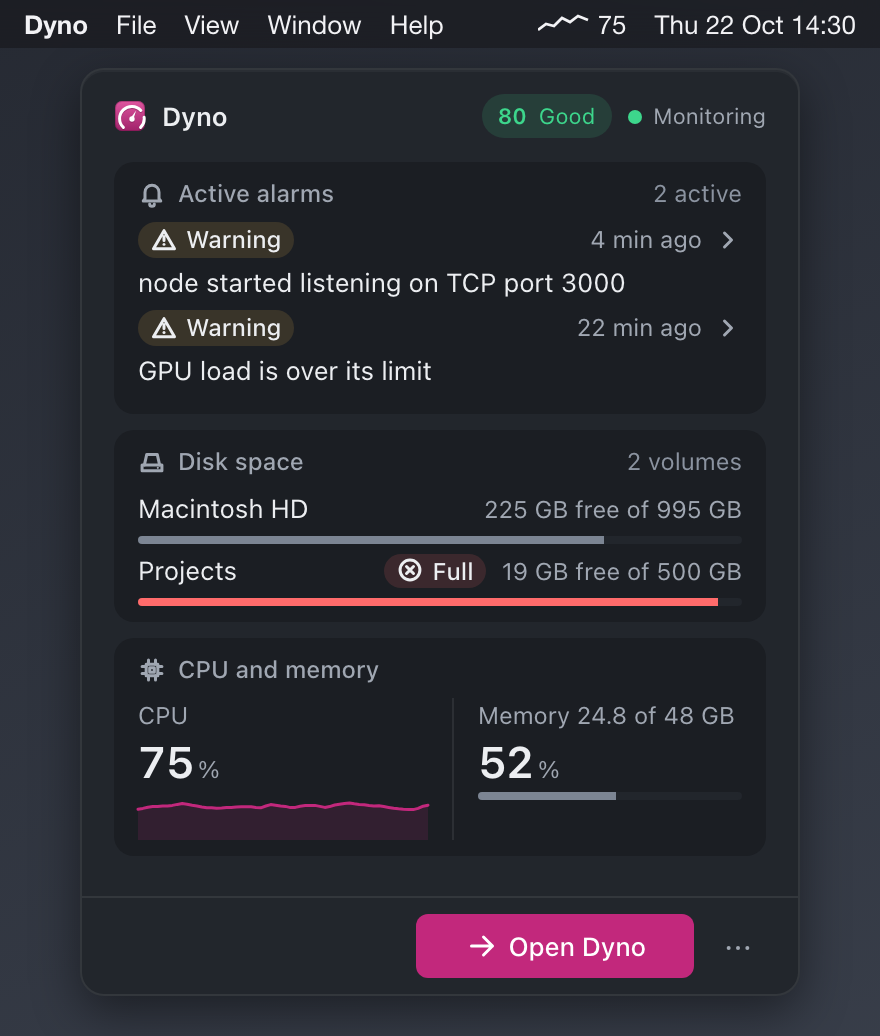
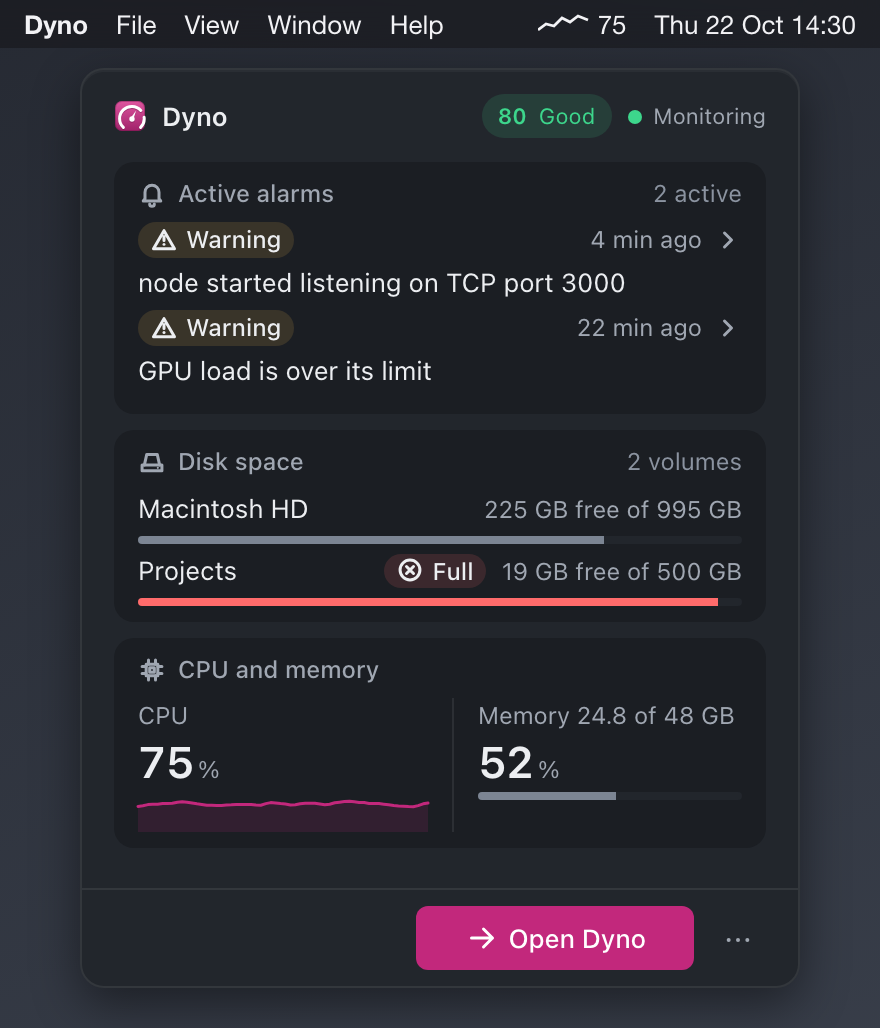
fix(dyno): the tray popup fits its 520 px cap with the agent stopped and two alarms listed
The mock's Active alarms widget lists the Alarms page's open alarms (two, not the single invented "Memory pressure
is high"), which made the popup with the agent-stopped notice 2 px taller than the cap (tray-fit.spec.ts "the agent
stopped", Chromium and WebKit, run 8208 and on the Mac; green on the train). The engine lists every open alarm and the
popup scrolls past the cap by design, so the layout gives the room back: the CPU sparkline is 20 px high, not 24 (the
default popup then has 2 px to spare in that state). The two tray pictures are regenerated; no other picture changed.

diff --git a/apps/dyno/app/src/app/features/tray/widgets/popover-widgets.ts b/apps/dyno/app/src/app/features/tray/widgets/popover-widgets.ts
@@ -77,7 +77,7 @@ const SK_ISSUE: IssueValue = { title: 'Disk write errors on disk4', app: '', kin
         <div class="dy-pw-half" [attr.data-tone]="c?.cpuTone ?? 'ok'">
           <span class="dy-pw-muted" pdSkeleton>CPU</span>
           <span class="dy-pw-big" pdSkeleton>{{ big(c?.cpuPercent ?? 0) }}<small>%</small></span>
-          <pd-sparkline [values]="c?.cpuMinute ?? []" scale="zero" [area]="true" [max]="100" [capacity]="sparkCapacity" [formatValue]="pct" [pad]="0" [dot]="false" [height]="24" color="var(--accent)" label="CPU over the last minute" />
+          <pd-sparkline [values]="c?.cpuMinute ?? []" scale="zero" [area]="true" [max]="100" [capacity]="sparkCapacity" [formatValue]="pct" [pad]="0" [dot]="false" [height]="20" color="var(--accent)" label="CPU over the last minute" />
         </div>
         <div class="dy-pw-half dy-pw-half--next" [attr.data-tone]="c?.memoryTone ?? 'ok'">
           <span class="dy-pw-muted" pdSkeleton>Memory {{ memText(c) }}</span>
